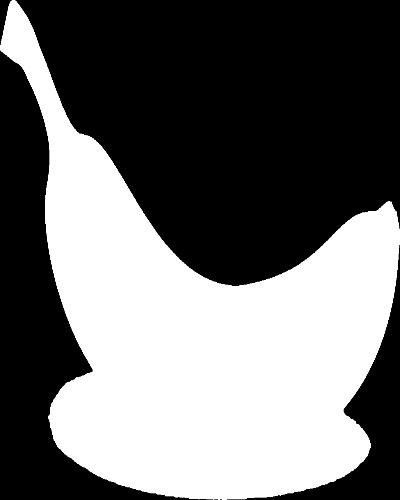
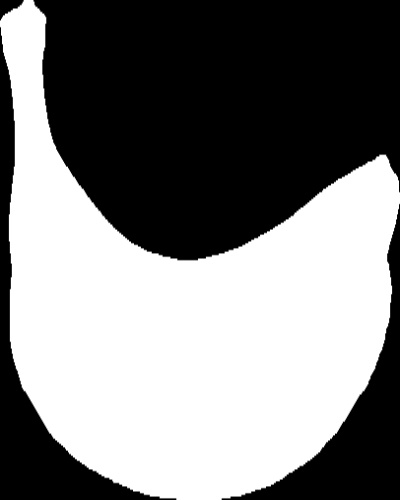
v1.0

diff --git a/classifier.py b/classifier.py
@@ -50,13 +50,10 @@ def discriminant_function(features, mu, cov, prior):
 
     return dx
 
-
 def computeImage(imageRGB):
     image = cv2.cvtColor(imageRGB, cv2.COLOR_BGR2GRAY)
     image = cv2.GaussianBlur(image, (5, 5), 5)
-
     kernel = np.ones((5, 5), np.uint8)
-
     ret, binarizedOtsu = cv2.threshold(image, 240, 255, cv2.THRESH_BINARY_INV)
     closing = cv2.morphologyEx(binarizedOtsu, cv2.MORPH_CLOSE, kernel)
     dilating = cv2.dilate(closing, kernel)
@@ -84,32 +81,28 @@ def computeImage(imageRGB):
 
     return final, imageRGBbb
 
-
 def genDescriptor(image, imageBbRgb):
     contours, hierarchy = cv2.findContours(image, cv2.RETR_LIST, cv2.CHAIN_APPROX_SIMPLE)
     idx = 0
     xMax, yMax, wMax, hMax = 0, 0, 0, 0
     maxCnt = 0
-    for cnt in  contours:
+    for cnt in contours:
         idx += 1
         x, y, w, h = cv2.boundingRect(cnt)
         if abs(h) * abs(w) > abs(hMax) * abs(wMax):
             xMax, yMax, wMax, hMax = x, y, w, h
             maxCnt = cnt
-
-    descriptor = np.array([0., 0., 0., 0., 0., 0., 0.])
+    descriptor = np.array([0., 0.])
     area = float(cv2.contourArea(maxCnt))
     perimetro = float(cv2.arcLength(maxCnt, True))
-    descriptor[0] = area
-    descriptor[1] = perimetro
-    descriptor[2] = 4 * np.pi * (area / perimetro ** 2)
-    (x, y), (minorAxisLength, majorAxisLength), angle = cv2.fitEllipse(maxCnt)
-    descriptor[3] = np.sqrt(majorAxisLength ** 2 - minorAxisLength ** 2) / majorAxisLength
-    descriptor[4] = np.mean(imageBbRgb[:, :, 0])
-    descriptor[5] = np.mean(imageBbRgb[:, :, 1])
-    descriptor[6] = np.mean(imageBbRgb[:, :, 2])
+    descriptor[0] = perimetro**2 / area
+    descriptor[1] = 4 * np.pi * (area / perimetro ** 2)
+    #descriptor[2] = np.mean(imageBbRgb[:, :, 0])
+    #descriptor[3] = np.mean(imageBbRgb[:, :, 1])
+    #descriptor[4] = np.mean(imageBbRgb[:, :, 2])
 
     return descriptor
+
 
 
 def classify_image(sign_image):
@@ -121,7 +114,10 @@ def classify_image(sign_image):
 
     # Compute descriptor
     image, imageRGBbb = computeImage(sign_image)
+    cv2.imwrite("./images/test/computedtestbanana.jpg",image)
+
     descriptor = genDescriptor(image, imageRGBbb)
+    print(descriptor)
     # Classify circle test image
     prior = 1 / 2
     apple = discriminant_function(descriptor, mean_apples, cov_apples, prior)
@@ -147,7 +143,9 @@ test_apple = cv2.imread(images_path + "test_apple.jpg", cv2.IMREAD_COLOR)
 test_banana = cv2.imread(images_path + "test_banana.jpg", cv2.IMREAD_COLOR)
 
 # Classify them
+
 print("Apple: ")
 descriptor_apple = classify_image(test_apple)
+
 print("Banana: ")
 descriptor_banana = classify_image(test_banana)

diff --git a/descriptor.py b/descriptor.py
@@ -8,8 +8,8 @@ import scipy.stats as stats
 images_path = './images/'
 fruits = ["apples", "bananas"]
 
-descriptor_bananas = np.zeros((14, 7))
-descriptor_apples = np.zeros((14, 7))
+descriptor_bananas = np.zeros((10, 2))
+descriptor_apples = np.zeros((10, 2))
 descriptors = np.array([descriptor_apples, descriptor_bananas])
 
 
@@ -24,29 +24,27 @@ def genDescriptor(image, imageBbRgb):
         if abs(h) * abs(w) > abs(hMax) * abs(wMax):
             xMax, yMax, wMax, hMax = x, y, w, h
             maxCnt = cnt
-    descriptor = np.array([0., 0., 0., 0., 0., 0., 0.])
+    descriptor = np.array([0., 0.])
     area = float(cv2.contourArea(maxCnt))
     perimetro = float(cv2.arcLength(maxCnt, True))
-    descriptor[0] = area
-    descriptor[1] = perimetro
-    descriptor[2] = 4 * np.pi * (area / perimetro ** 2)
-    (x, y), (minorAxisLength, majorAxisLength), angle = cv2.fitEllipse(maxCnt)
-    descriptor[3] = np.sqrt(majorAxisLength ** 2 - minorAxisLength ** 2) / majorAxisLength
-    descriptor[4] = np.mean(imageBbRgb[:, :, 0])
-    descriptor[5] = np.mean(imageBbRgb[:, :, 1])
-    descriptor[6] = np.mean(imageBbRgb[:, :, 2])
+    descriptor[0] = perimetro**2 / area
+    descriptor[1] = 4 * np.pi * (area / perimetro ** 2)
+    #descriptor[2] = np.mean(imageBbRgb[:, :, 0])
+    #descriptor[3] = np.mean(imageBbRgb[:, :, 1])
+    #descriptor[4] = np.mean(imageBbRgb[:, :, 2])
 
     return descriptor
 
 
 for f in range(0, 2):
-    for i in range(1, 15):
+    for i in range(1, 11):
         image = cv2.imread(images_path + "binarized/" + str(fruits[f]) + "/" + str(i) + ".jpg", 0)
         imageBbRgb = cv2.imread(images_path + "rgbBoundingBox/" + str(fruits[f]) + "/" + str(i) + ".jpg",
                                 cv2.IMREAD_COLOR)
         descriptors[f, i - 1, :] = genDescriptor(image, imageBbRgb)
 
 print("APPLES: ", descriptors[0])
+
 print("BANANAS: ", descriptors[1])
-np.save("./data/descriptor_apples.npy", descriptors[0, :, :])
-np.save("./data/descriptor_bananas.npy", descriptors[1, :, :])
+np.save("./data/descriptor_apples.npy", descriptors[0])
+np.save("./data/descriptor_bananas.npy", descriptors[1])

diff --git a/binarize.py b/binarize.py
@@ -43,12 +43,12 @@ def computeImage(imageRGB):
 
     final = cv2.resize(final, (400, 500))
     imageRGBbb = imageRGB[yMax:yMax + hMax, xMax:xMax + wMax]
-    cv2.imwrite("./images/rgbBoundingBox/" + fruits[f] + "/" + str(i) + ".jpg", imageRGB)
+    cv2.imwrite("./images/rgbBoundingBox/" + fruits[f] + "/" + str(i) + ".jpg", imageRGB[yMax:yMax + hMax, xMax:xMax + wMax])
     return final, imageRGBbb
 
 
 for f in range(0, 2):
-    for i in range(1, 15):
+    for i in range(1, 11):
         imageRGB = cv2.imread(images_path + "/rgb/" + str(fruits[f]) + "/" + str(i) + ".jpg", cv2.IMREAD_COLOR)
 
         finalImage, x = computeImage(imageRGB)

diff --git a/huMoments.py b/huMoments.py
@@ -5,7 +5,7 @@ import matplotlib.pyplot as plt
 import matplotlib
 import scipy.stats as stats
 
-images_path = './images/binarized/'
+images_path = './images/rgb/'
 
 
 def image_moments(region):
@@ -23,9 +23,9 @@ def image_moments(region):
     cnt = contours[0]
 
     # Compute moments
-    moments = cv2.moments(cnt)
+    moment = cv2.moments(cnt)
 
-    return moments
+    return moment
 
 
 hu_apples = np.zeros((14, 7))
